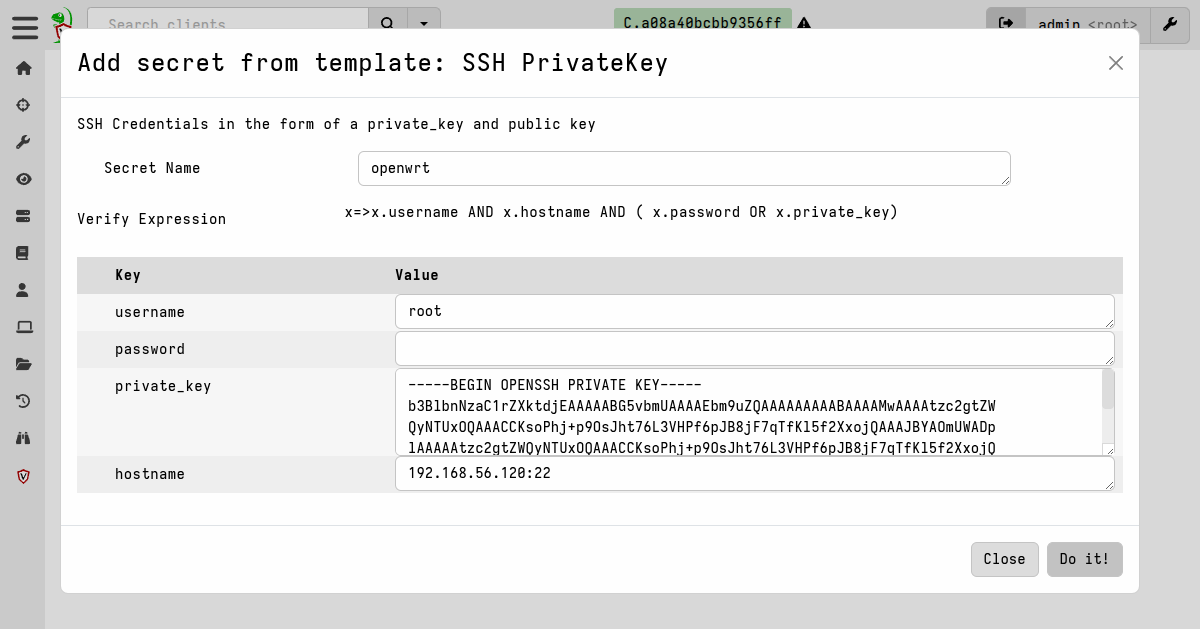
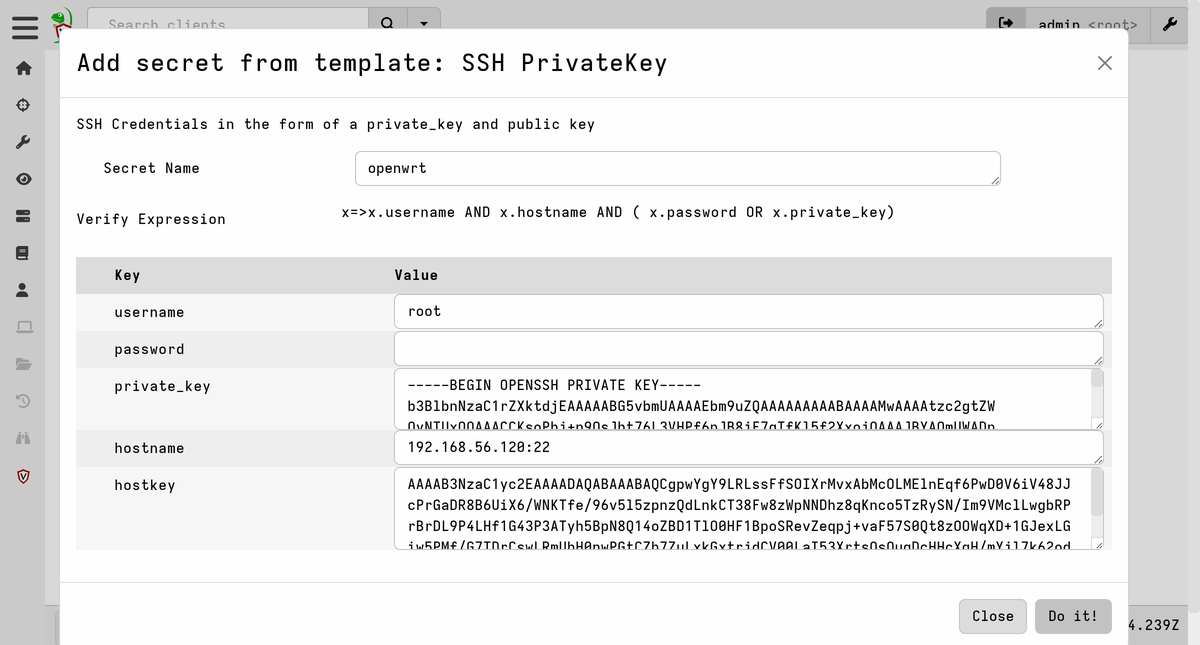
Document SSH host key verification and pinning (#1341)
The ssh accessor gained a `hostkey` argument

([Velocidex/velociraptor#5037](https://github.com/Velocidex/velociraptor/pull/5037)),
which pins the remote host key instead of only logging it. This
documents the argument, the log line, the rejection error, and how to
obtain the base64 value from the query log, `ssh-keyscan`, or the
server's own `.pub` file.

Host key checking also works with `secret=`, and `VqlMustUseSecrets`
does not disable it, since a host key is not a credential
([Velocidex/velociraptor#5038](https://github.com/Velocidex/velociraptor/pull/5038)).
A host key carried by the secret overrides the `hostkey` argument,
including a `hostkey` set through the `SSH_CONFIG` variable.

diff --git a/content/docs/file_collection/ssh/index.md b/content/docs/file_collection/ssh/index.md
@@ -2,7 +2,7 @@
 title: Collections and File Acquisition over SSH
 menutitle: Collections over SSH
 date: 2025-11-06
-last_reviewed: 2026-06-23
+last_reviewed: 2026-09-25
 draft: false
 weight: 30
 summary: |
@@ -126,6 +126,7 @@ the `SSH_CONFIG` VQL variable, which accepts these fields:
 | `password` | Password authentication |
 | `private_key` | Private key content (unencrypted PEM format) |
 | `secret` | Name of a server secret to use instead of inline credentials |
+| `hostkey` | Base64-encoded host key to check the remote host against |
 
 Although credentials (`username`, `password`/`private_key`) can be
 explicitly passed to the accessor, this is strongly discouraged. See
@@ -161,6 +162,11 @@ The accessor requires the `NETWORK` permission to operate.
 > When this is enabled, inline credentials (like `username` and
 > `private_key` in `SSH_CONFIG`) are rejected, and only `secret=`
 > lookups are allowed.
+>
+> Note that a host key is not a credential, so this does not prevent
+> [host key verification](#host-key-verification). You can still pin a
+> key by setting `hostkey` alongside `secret=`, or by adding a
+> `hostkey` field to the secret itself.
 
 ### Creating SSH secrets
 
@@ -207,8 +213,113 @@ LET SSH_CONFIG <= dict(
 - The `hostname` field must include the port (for example, `10.0.0.1:22`).
 - Private keys must be in unencrypted PEM format. Encrypted keys are
   not supported.
-- The host key of the remote SSH server is not verified - it is
-  trusted by default.
+- The remote host's key is accepted without being checked. See
+  [Host key verification](#host-key-verification) below for how to
+  check it instead.
+
+
+### Host key verification
+
+An SSH server proves its identity with a **host key**. If the same key
+comes back on a later connection, that is good evidence you are talking
+to the same machine rather than to an impostor sitting in between.
+
+Velociraptor does not check the host key by default. VQL queries run
+non-interactively, so - unlike the `ssh` command - the accessor has no
+opportunity to ask you whether to trust a key it hasn't seen before.
+Targets are often devices like routers and firewalls whose keys you
+have no way of knowing in advance.
+
+Instead of checking it up front, the accessor **logs the host key it
+received** on every connection:
+
+```text
+ssh: Accepted host key AAAAC3NzaC1lZDI1NTE5AAAAI...
+```
+
+Because this goes to the query logs, you can check it after the fact
+and notice a key that changed between runs - see
+[VQL error handling](/docs/vql/fundamentals/#vql-error-handling) for
+where to find those logs.
+
+If you would rather check the key before connecting, set the `hostkey`
+field in `SSH_CONFIG`. The accessor then rejects any connection where
+the remote host presents a different key, and the query fails during
+the SSH handshake:
+
+```text
+ssh: handshake failed: Rejected host key AAAAC3NzaC1lZDI1NTE5AAAAI...: Did not match AAAAB3NzaC1yc2E...
+```
+
+The comparison is exact - there is no partial matching, so the string
+you supply has to be the key the server actually presents.
+
+###### Example: Pinning a host key
+
+```vql
+LET SSH_CONFIG <= dict(
+    hostname='192.168.1.100:22',
+    username='admin',
+    private_key=read_file(filename='/etc/velociraptor/ssh_keys/remote.key'),
+    hostkey='AAAAC3NzaC1lZDI1NTE5AAAAI...')
+```
+
+`hostkey` also works alongside `secret=`, so you can pin the key for a
+shared secret without editing it:
+
+```vql
+LET SSH_CONFIG <= dict(
+    secret='alpine',
+    hostkey='AAAAC3NzaC1lZDI1NTE5AAAAI...')
+```
+
+Alternatively, add a `hostkey` field to the secret itself, in which case
+the key travels with the credentials and applies to every user of that
+secret.
+
+There are three ways to get the correct value:
+
+1. Read it from the query log after a first successful connection, as
+   described above. This is the most reliable option, because it is
+   the key the server actually presented during the handshake.
+2. Run `ssh-keyscan` against the host and take the third field:
+
+   ```bash
+   $ ssh-keyscan 192.168.1.100
+   # 192.168.1.100:22 SSH-2.0-OpenSSH_9.6p1
+   192.168.1.100 ssh-ed25519 AAAAC3NzaC1lZDI1NTE5AAAAI...
+   ```
+
+3. Read the server's own public key file, for example
+   `/etc/ssh/ssh_host_ed25519_key.pub`, and take the second field:
+
+   ```bash
+   $ cut -d' ' -f2 /etc/ssh/ssh_host_ed25519_key.pub
+   AAAAC3NzaC1lZDI1NTE5AAAAI...
+   ```
+
+Both give you the same string, because it is the same key encoded the
+same way.
+
+> [!IMPORTANT] Two things to watch out for
+> **A host can have several keys.** A typical SSH server holds a
+> separate host key for each algorithm it supports (RSA, ECDSA,
+> Ed25519) and presents whichever one the two sides agree on during the
+> handshake. The key you see in the query log depends on the algorithms
+> that host and the Velociraptor binary support, so pinning the wrong
+> one produces a mismatch even though nothing is wrong. If a pinned key
+> is rejected unexpectedly, check the query log to see which key was
+> actually presented. Note also that `hostkey` expects the
+> base64-encoded key itself, not the shorter `SHA256:...` fingerprint
+> that `ssh-keygen -l` prints.
+>
+> **Secrets and `hostkey`.** An SSH secret may carry its own `hostkey`
+> field. When it does, that key is pinned and connections presenting
+> any other key are rejected. When the secret does not define one, a
+> `hostkey` set in `SSH_CONFIG` is honoured instead, so you can pin a
+> key for a shared secret without editing the secret itself. A host
+> key held in the secret takes precedence and cannot be overridden
+> from `SSH_CONFIG`.
 
 
 ## Clientless collections
@@ -535,7 +646,8 @@ remappings:
     scope: |
       LET SSH_CONFIG <= dict(hostname='192.168.56.120:22',
               username='root',
-              private_key=read_file(filename='/velociraptor-clients/id_ed25519_openwrt'))
+              private_key=read_file(filename='/velociraptor-clients/id_ed25519_openwrt'),
+              hostkey='AAAAC3NzaC1lZDI1NTE5AAAAI...')
     from:
       accessor: ssh
       prefix: /
@@ -548,7 +660,8 @@ remappings:
     scope: |
       LET SSH_CONFIG <= dict(hostname='192.168.56.120:22',
               username='root',
-              private_key=read_file(filename='/velociraptor-clients/id_ed25519_openwrt'))
+              private_key=read_file(filename='/velociraptor-clients/id_ed25519_openwrt'),
+              hostkey='AAAAC3NzaC1lZDI1NTE5AAAAI...')
     from:
       accessor: ssh
       prefix: /
@@ -576,6 +689,14 @@ remappings:
    with the `ssh` accessor, so every file read operation goes through
    SSH. It also specifies that Linux paths are expected, which is
    necessary if the virtual client is running on Windows, for example.
+
+   Because a virtual client runs unattended and reconnects on its own
+   schedule, it is worth pinning the host key in both `mount` rules. If
+   the router is ever rebuilt, or something else starts answering on
+   that address, the client stops rather than silently collecting from
+   the wrong machine. See
+   [Host key verification](#host-key-verification) for how to obtain
+   the value.
 
 The `shadow` rules pass through other commonly used
 accessors.
